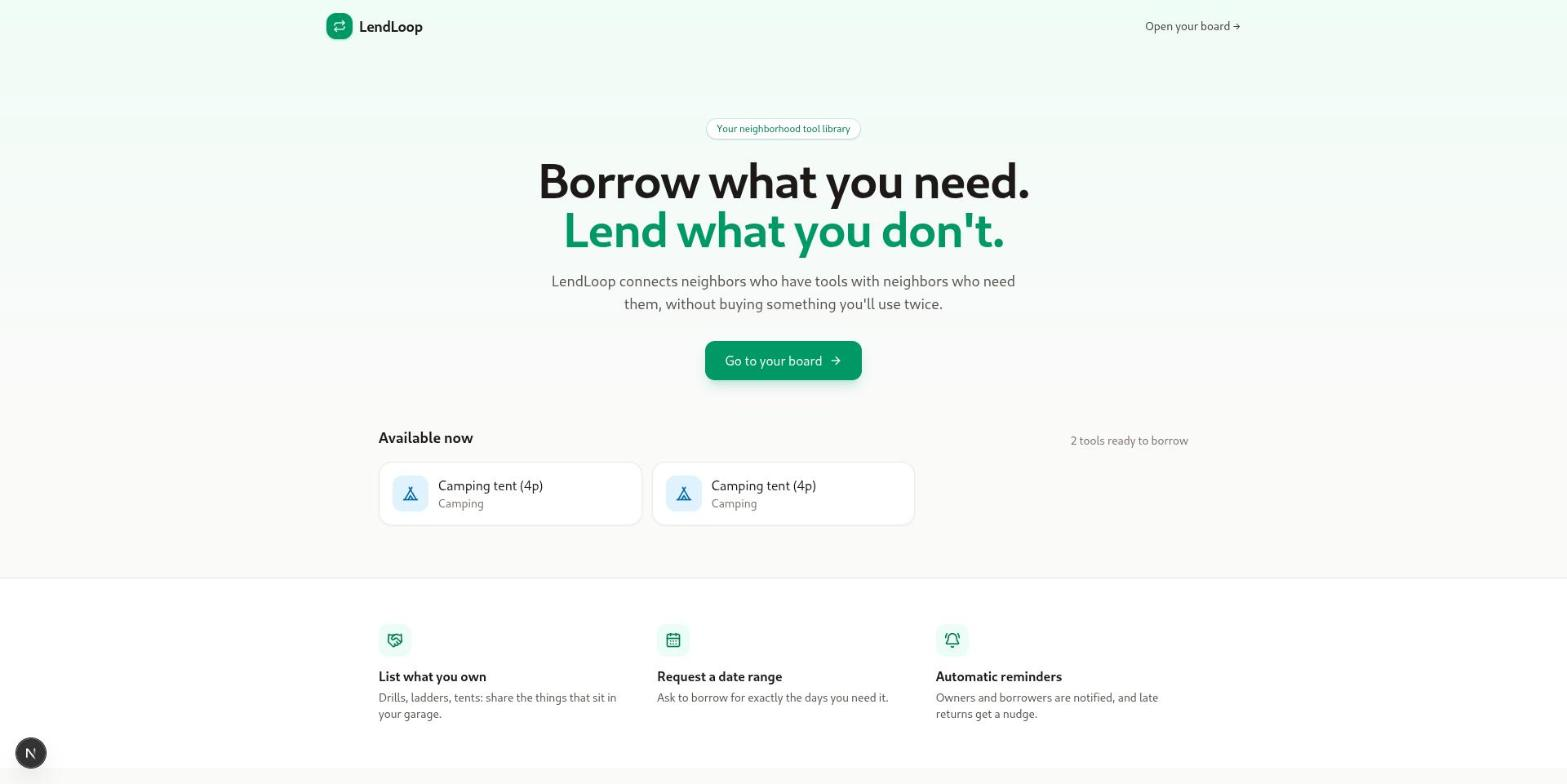
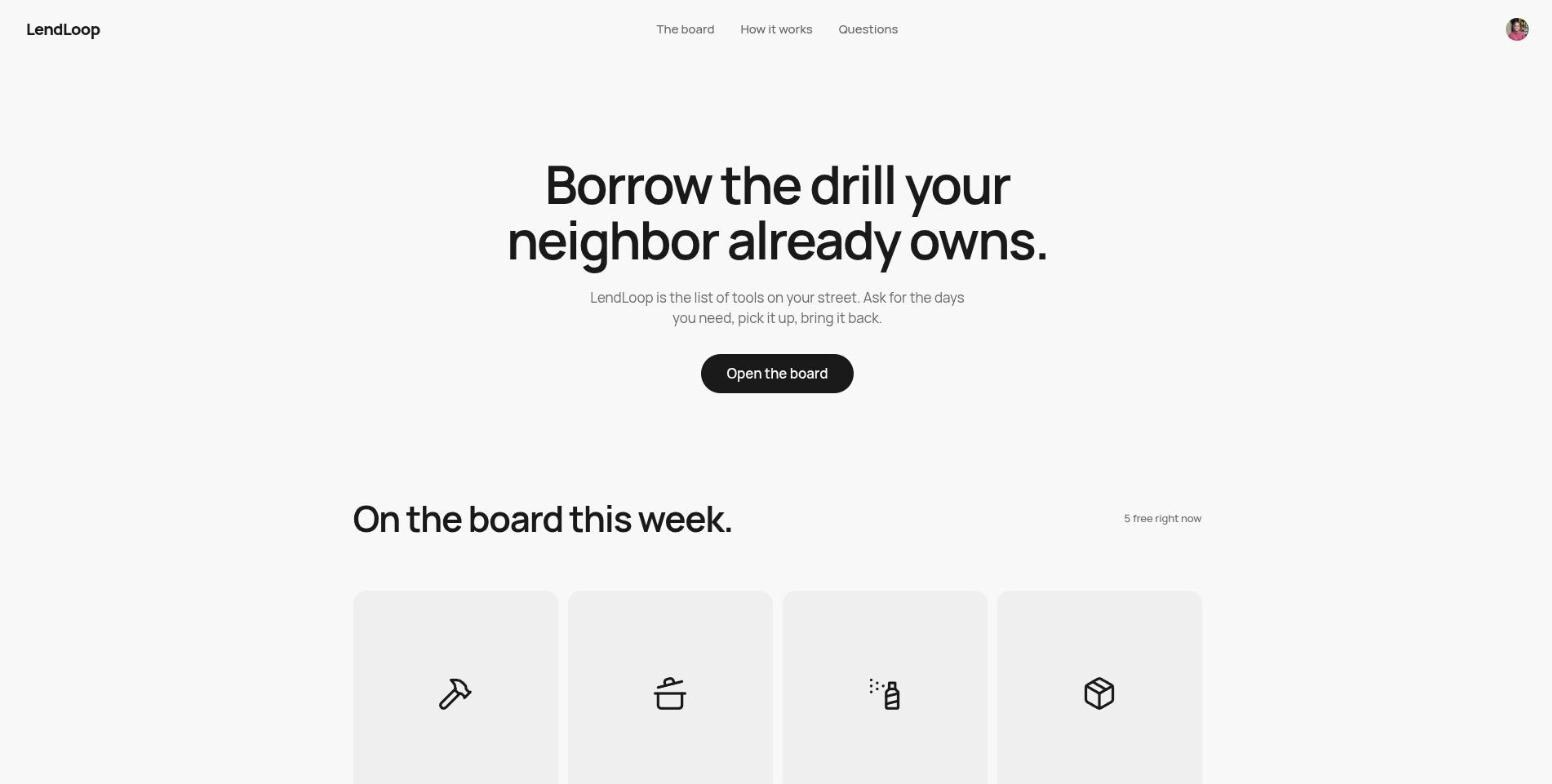
Update README screenshots for the new UI

diff --git a/README.md b/README.md
@@ -2,7 +2,7 @@
 
 # LendLoop
 
-**Borrow what you need. Lend what you don't.**
+**Borrow the drill your neighbor already owns.**
 
 A neighborhood tool-lending board with authenticated listings, date-range borrow requests and secure, idempotent workflow automation.
 
@@ -13,7 +13,7 @@ A neighborhood tool-lending board with authenticated listings, date-range borrow
 ![n8n](https://img.shields.io/badge/Automation-n8n_2.46-EA4B71?logo=n8n&logoColor=white)
 ![Docker](https://img.shields.io/badge/Docker-Compose-2496ED?logo=docker&logoColor=white)
 
-<img src="docs/screenshots/landing.jpg" alt="LendLoop landing page" width="860" />
+<img src="docs/screenshots/board.jpg" alt="The board: tools on loan are drawn as dashed outlines with a tag saying when they come back" width="860" />
 
 </div>
 
@@ -46,6 +46,10 @@ Neighbors list the tools they are willing to lend, other neighbors request them 
 | **Overdue reminder** | Daily at 09:00 UTC | Reminds borrowers of overdue loans and records each reminder exactly once |
 
 Every automation result is written back to the app, so each loan shows its latest activity (*"Reminder sent 2 days ago"*) and admins see failed runs.
+
+| Landing page | Request rows (admin view) |
+|---|---|
+| <img src="docs/screenshots/landing.jpg" alt="Landing page" width="420" /> | <img src="docs/screenshots/loans.jpg" alt="Loans with date tags, a late return and a pending request" width="420" /> |
 
 ## Features
 
@@ -293,7 +297,8 @@ npx convex env set CLERK_JWT_ISSUER_DOMAIN https://<your-instance>.clerk.account
 npx convex env set LENDLOOP_WEBHOOK_SECRET "$SECRET"
 npx convex env set N8N_LOAN_EVENTS_WEBHOOK_URL http://localhost:5678/webhook/lendloop-loan-events
 npx convex env set ADMIN_EMAILS you@example.com
-npx convex run seed:demo    # optional: demo users, tools and an overdue loan
+npx convex run seed:demo    # optional: five neighbors, seven tools, a late loan and a pending request
+                            # (re-running replaces it; `seed:reset` removes it)
 ```
 
 ### 4. Start n8n
